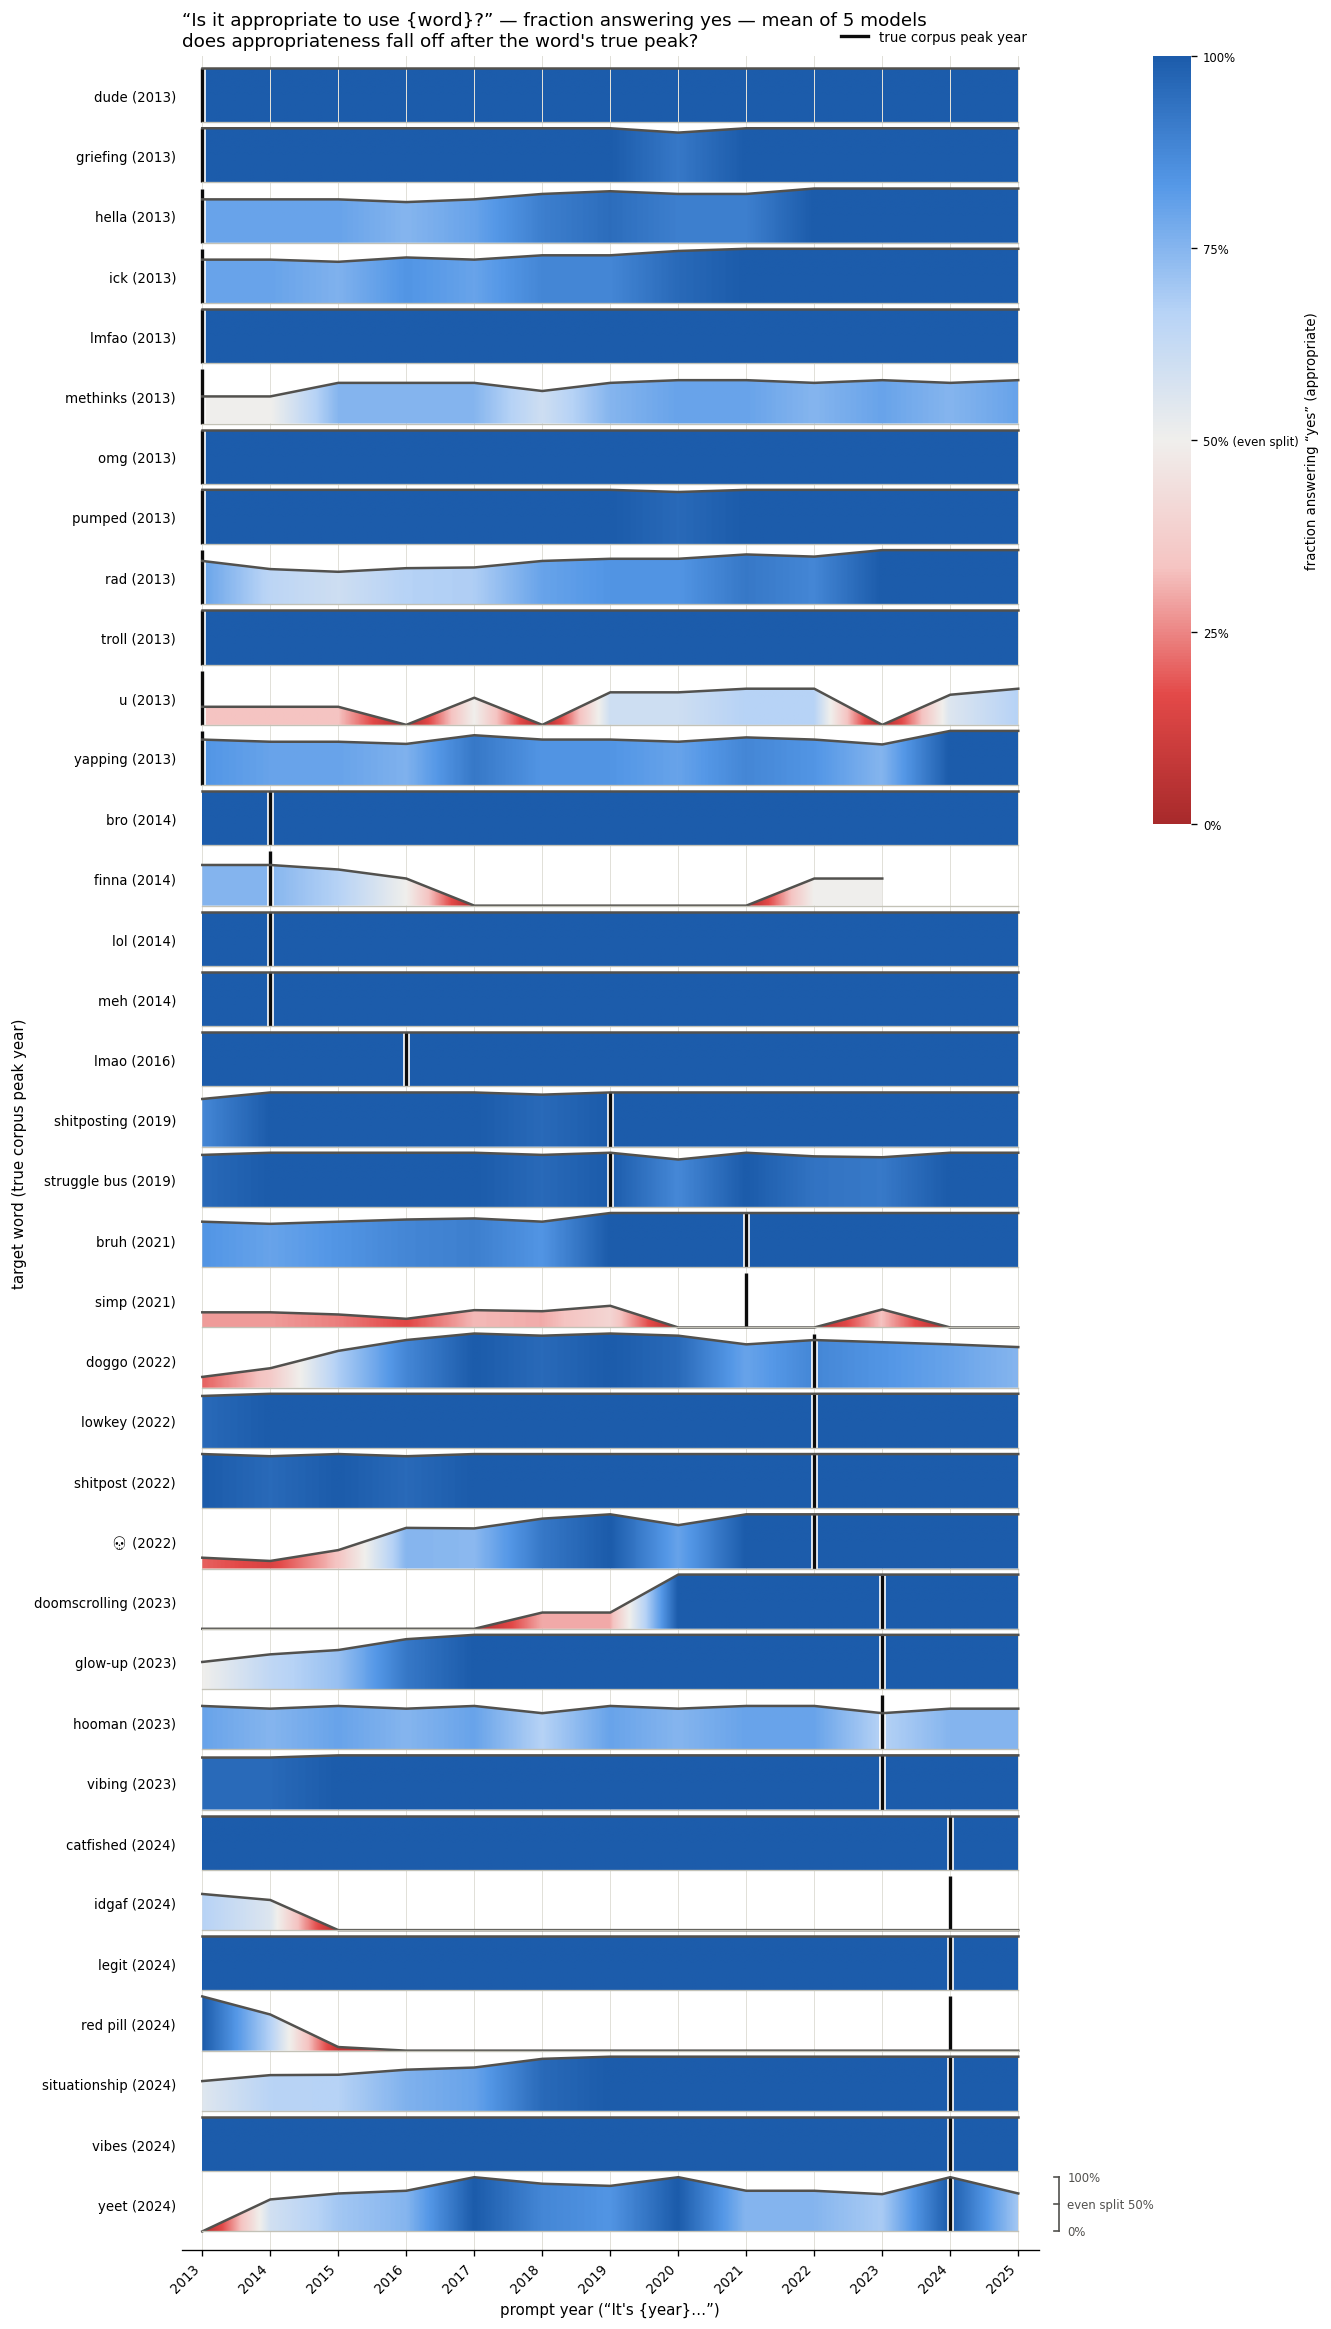
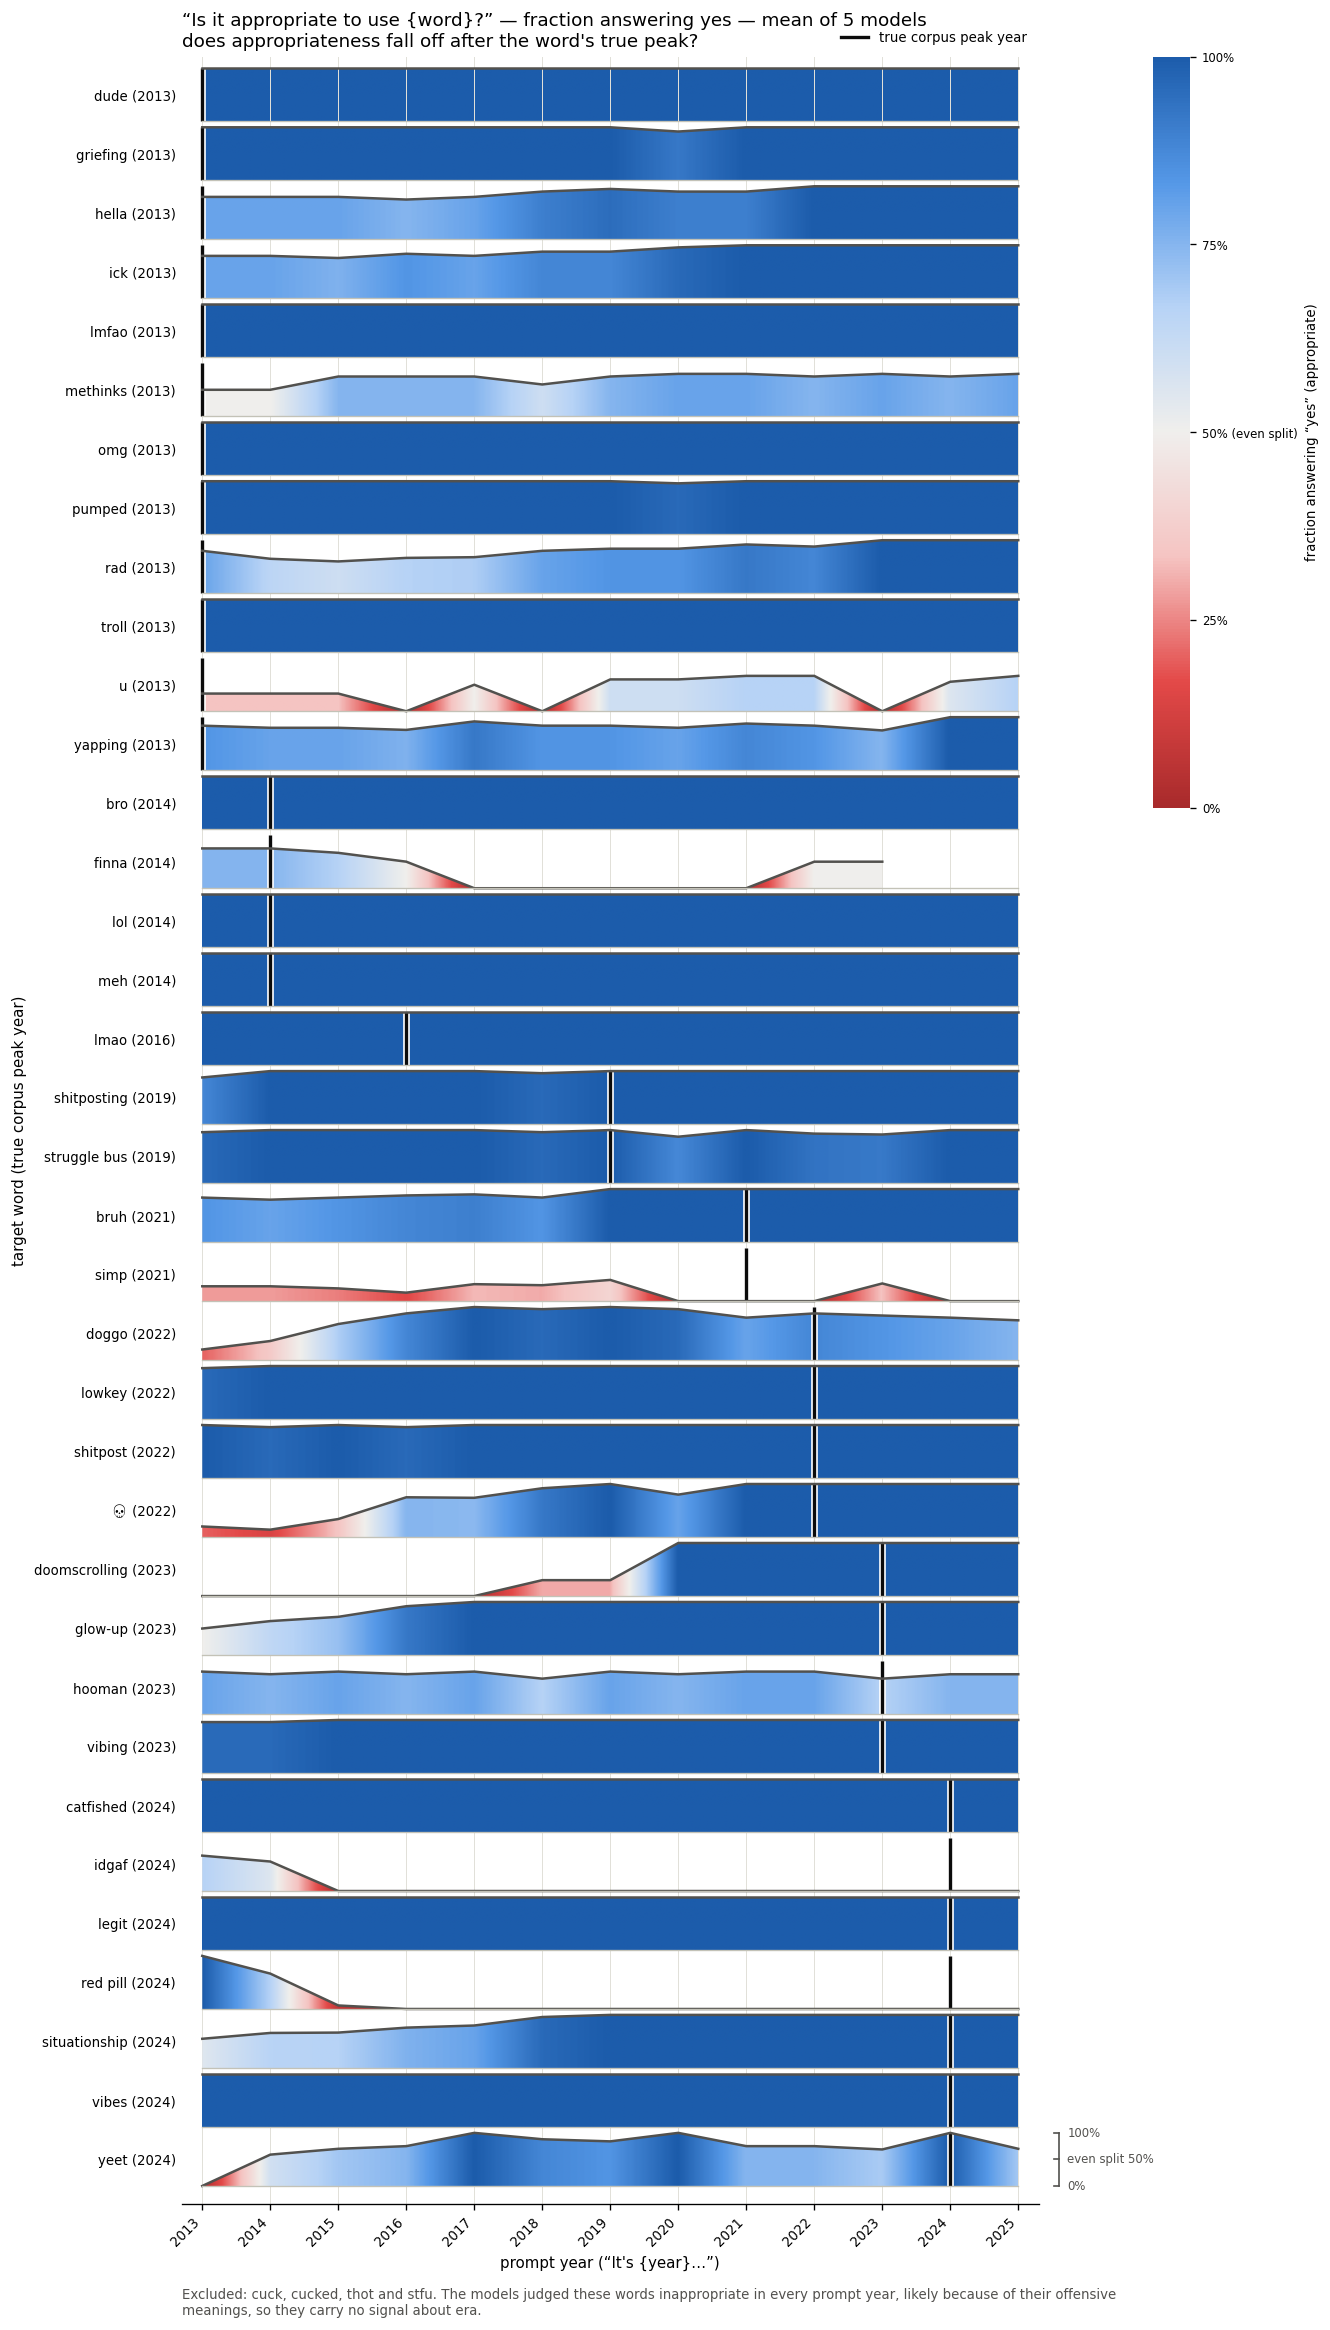
Add caption to era appropriate to document exclusions

diff --git a/PromptingSlang/experiments/direct_year_association/visualizer/visualize_EraAppropriate.py b/PromptingSlang/experiments/direct_year_association/visualizer/visualize_EraAppropriate.py
@@ -13,8 +13,9 @@ through each ridge marks the word's true corpus peak year (from FineWeb
 ``peak_years_pct.json``) --- a model population tracking usage would keep each
 ridge high up to its line and let it drop off afterwards.
 
-``--exclude`` drops the listed target words from the chart (matched
-case-insensitively against the prompt's ``word`` variable).
+EXCLUDED_WORDS are always left out, and EXCLUDED_CAPTION under the chart says
+why. ``--exclude`` drops further target words (matched case-insensitively
+against the prompt's ``word`` variable) without adding them to the caption.
 
 Usage (run from the PromptingSlang root):
     python experiments/direct_year_association/visualizer/visualize_EraAppropriate.py
@@ -47,6 +48,14 @@ DEFAULT_OUTPUT = {
 }
 DEFAULT_PEAK_YEARS = REPO_ROOT.parent / "FineWebAnalysis" / "peak_years_pct.json"
 PROMPT_ID = "EraAppropriate"
+
+# Words the models judged inappropriate in every prompt year, so their ridges are
+# flat at 0 and carry no era signal. Always excluded; the caption must name them.
+EXCLUDED_WORDS = ("cuck", "cucked", "thot", "stfu")
+EXCLUDED_CAPTION = (
+    "Excluded: cuck, cucked, thot and stfu. The models judged these words "
+    "inappropriate in every prompt year, likely because of their offensive "
+    "meanings, so they carry no signal about era.")
 
 _YES = re.compile(r"^(yes|yeah|yep|yup|sure|absolutely|definitely|totally|true|appropriate|ok|okay)\b")
 _NO = re.compile(r"^(no|nope|nah|never|not|inappropriate|false)\b")
@@ -102,7 +111,8 @@ def yes_rate(cell: list[int]) -> float:
     return yes / decided if decided else np.nan
 
 
-def render_ridge(data: dict, peaks: dict[str, int], output: Path | None) -> None:
+def render_ridge(data: dict, peaks: dict[str, int], output: Path | None,
+                 caption: str | None = None) -> None:
     """Ridgeline of the yes-rate by prompt year, averaged over all models."""
     per_model = {m: {w: {y: yes_rate(c) for y, c in years.items()} for w, years in words.items()}
                  for m, words in data.items()}
@@ -111,7 +121,8 @@ def render_ridge(data: dict, peaks: dict[str, int], output: Path | None) -> None
         title=f"“Is it appropriate to use {{word}}?” — fraction answering yes — mean of "
               f"{len(data)} models\ndoes appropriateness fall off after the word's true peak?",
         xlabel="prompt year (“It's {year}…”)",
-        cbar_label="fraction answering “yes” (appropriate)", output=output)
+        cbar_label="fraction answering “yes” (appropriate)", output=output,
+        caption=caption)
 
 def main() -> None:
     p = argparse.ArgumentParser(
@@ -123,8 +134,10 @@ def main() -> None:
     p.add_argument("--peak-years", type=Path, default=DEFAULT_PEAK_YEARS, dest="peak_years",
                    help=f"peak_years_pct.json with true corpus peaks (default: {DEFAULT_PEAK_YEARS}).")
     p.add_argument("--exclude", nargs="+", default=[], metavar="WORD",
-                   help="Target words to leave out of the chart (case-insensitive; "
-                        "quote multi-word terms, e.g. \"red pill\").")
+                   help="Target words to leave out of the chart in addition to "
+                        f"EXCLUDED_WORDS ({', '.join(EXCLUDED_WORDS)}), which are always "
+                        "excluded (case-insensitive; quote multi-word terms, e.g. "
+                        "\"red pill\").")
     p.add_argument("-o", "--output", type=Path, default=None,
                    help="Output path (default: figures/era_appropriate_{ridge_,}by_year.png). "
                         "Pass '-' to display interactively.")
@@ -137,7 +150,7 @@ def main() -> None:
     if not peaks:
         print(f"Warning: no peak years from {args.peak_years}; ordering alphabetically, "
               "no true-peak outline.", file=sys.stderr)
-    exclude = {w.lower() for w in args.exclude}
+    exclude = {w.lower() for w in (*EXCLUDED_WORDS, *args.exclude)}
     words = {str(r["variables"]["word"]).lower() for r in records
              if r.get("prompt_id") == PROMPT_ID and (r.get("variables") or {}).get("word")}
     unknown = sorted(exclude - words)
@@ -149,7 +162,7 @@ def main() -> None:
     output = None if str(output) == "-" else Path(output)
     if not data:
         sys.exit(f"No {PROMPT_ID} records found.")
-    render_ridge(data, peaks, output)
+    render_ridge(data, peaks, output, EXCLUDED_CAPTION)
 
 
 if __name__ == "__main__":

diff --git a/PromptingSlang/src/ridgeline.py b/PromptingSlang/src/ridgeline.py
@@ -9,6 +9,7 @@ A dark vertical line through each ridge marks the word's true corpus peak year.
 
 from __future__ import annotations
 
+import textwrap
 from pathlib import Path
 
 import matplotlib.pyplot as plt
@@ -43,8 +44,12 @@ def mean_rates(per_model: dict[str, dict[str, dict[str, float]]]) -> dict[str, d
 
 def render_ridgeline(rates: dict[str, dict[str, float]], peaks: dict[str, int], *,
                      center: float, center_label: str, title: str, xlabel: str,
-                     cbar_label: str, output: Path | None) -> None:
-    """Draw ``{word: {year: rate}}`` as a ridgeline and save it (or show it if ``output`` is None)."""
+                     cbar_label: str, output: Path | None,
+                     caption: str | None = None) -> None:
+    """Draw ``{word: {year: rate}}`` as a ridgeline and save it (or show it if ``output`` is None).
+
+    ``caption`` is wrapped and set under the x-axis label, left-aligned with the plot.
+    """
     words = sorted(rates, key=lambda w: (peaks.get(w, 9999), w))  # earliest peak first (top)
     years = sorted({int(y) for w in words for y in rates[w]})
     if not words or not years:
@@ -122,6 +127,13 @@ def render_ridgeline(rates: dict[str, dict[str, float]], peaks: dict[str, int], 
         cbar.ax.tick_params(labelsize=7)
         cbar.set_label(cbar_label, fontsize=8)
         cbar.outline.set_visible(False)
+    if caption:
+        # x in axes fraction (flush with the plot's left edge), y just under the
+        # x-axis label, wherever tick-label rotation leaves it.
+        ax.annotate(textwrap.fill(caption, width=int(fig.get_figwidth() * 13)),
+                    xy=(0, 0), xycoords=("axes fraction", ax.xaxis.label),
+                    xytext=(0, -10), textcoords="offset points",
+                    ha="left", va="top", fontsize=8, color="#52514e")
     fig.tight_layout()
 
     if output:
